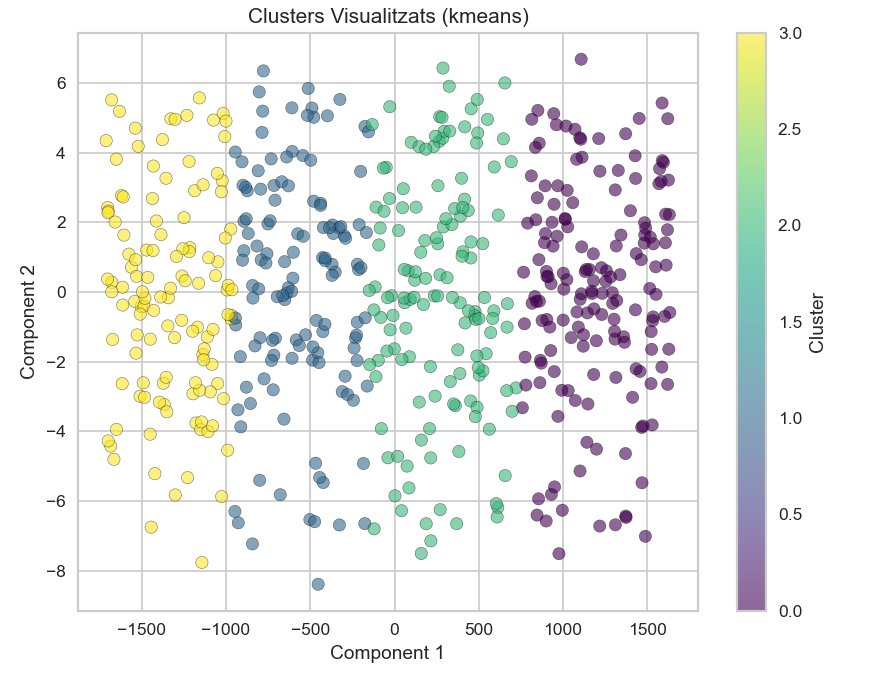
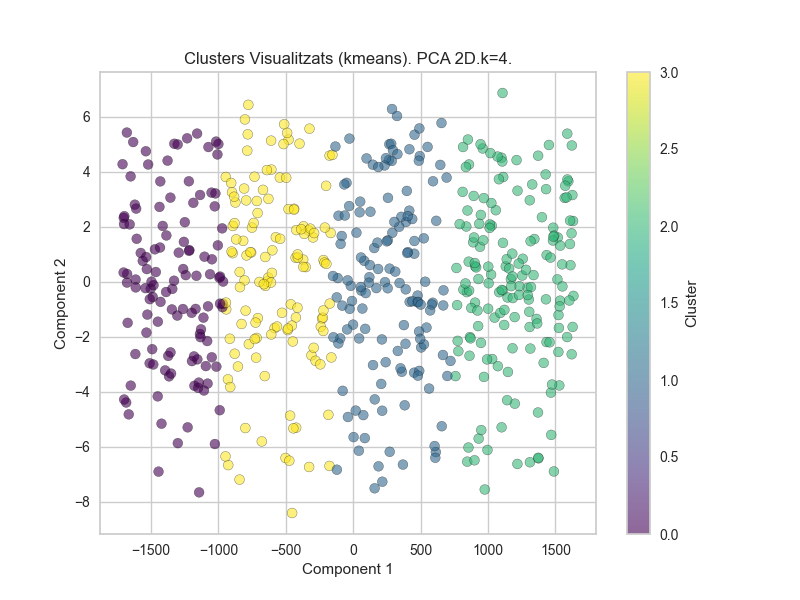
clustering dataset completo

Changed region(s): [[0.0, 0.0, 0.9375, 0.99], [0.0625, 0.81, 0.125, 0.87]]

diff --git a/scripts/06_main_clustering.py b/scripts/06_main_clustering.py
@@ -39,8 +39,8 @@ if __name__=="__main__":
             clustering_kmeans = ClusteringModel(preprocessed_df, algorithm='kmeans')  
             clustering_kmeans.elbow_method(max_clusters=50)
             clustering_kmeans.fit()
-            # clustering_kmeans.plot_clusters_PCA_2d()
-            # clustering_kmeans.plot_clusters_PCA_3d()
+            clustering_kmeans.plot_clusters_PCA_2d()
+            clustering_kmeans.plot_clusters_PCA_3d()
             clustering_kmeans.plot_clusters_TSNE_2d()
             clustering_kmeans.plot_clusters_TSNE_3d()
             clustering_kmeans.evaluate()

diff --git a/docs/06_clustering.md b/docs/06_clustering.md
@@ -89,7 +89,17 @@ Per tal de visualitzar les agrupacions, hem provat dues tècniques de visualitza
 
 ## Pregunta 6: Interpretació dels resultats
 ### Kmeans amb dataset complet
-A continuació, s'interpreta la gràfica generada amb el clustering de Kmeans. Aquesta es troba a `../visualizations/overf_suf_scaled_TSNE3d_k4.png`: ![Clustering TSNE k=4](/visualizations/clustering/overf_shuf_scaled_TSNE3d_k4.png)
+A continuació, es visualitza el resultat del clustering realitzat amb l'algoritme K-Means. S'ha utilitzat PCA i t-SNE. 
+
+![Clustering PCA 2D k=4](/visualizations/clustering/overf_shuf_scaled_PCA2d_k4.png) ![Clustering PCA 3D k=4](/visualizations/clustering/overf_shuf_scaled_PCA3d_k4.png)
+
+![Clustering TSNE 2D k=4](/visualizations/clustering/overf_shuf_scaled_TSNE2d_k4.png) ![Clustering TSNE 3D k=4](/visualizations/clustering/overf_shuf_scaled_TSNE3d_k4.png)
+
+#### Observacions principals:
+Les observacions principals del resultat és:
+        - **Formes en espiral o anells:** Els punts es distribueixen en estructures clarament separades que semblen tenir formes circulars o en espiral. Això suggereix que els grups poden estar relacionats amb variacions circulars o periòdiques en les dades originals.
+        - **Separació dels clusters:** Els quatre clusters són clarament distingibles gràcies a la codificació de colors i a l'estructura 3D, cosa que indica que el model K-Means ha estat capaç de captar diferències significatives entre els grups.
+        - **Dimensionalitat no lineal:** Reforcem el valor d’utilitzar t-SNE, ja que aquesta tècnica pot capturar estructures no lineals que el PCA no hauria representat de manera adequada (com s'ha vist en el gràfic 2D anterior).
 
 
 
